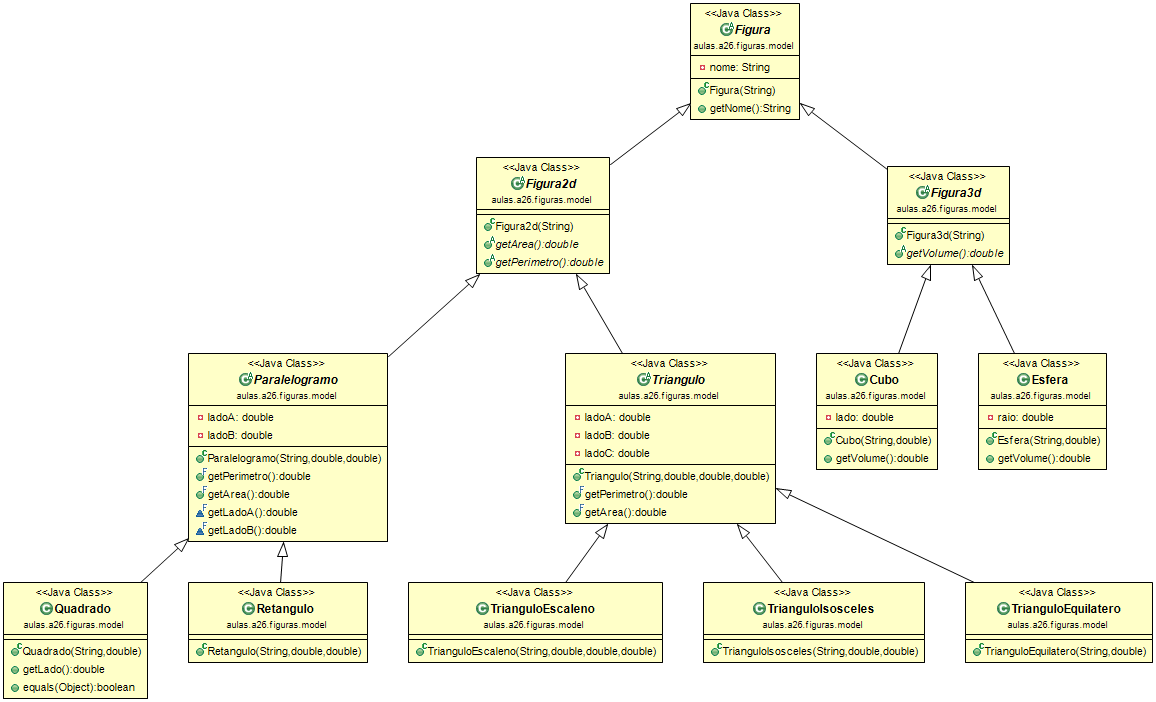
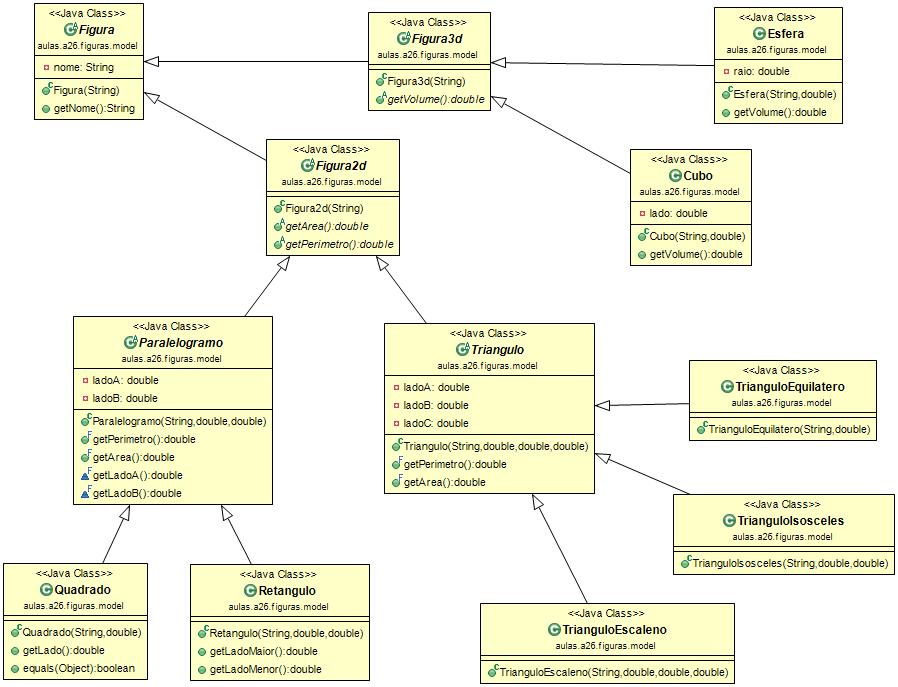
.

diff --git a/aulas-poo/src/aulas/a25/contas/model/Consumidor.java b/aulas-poo/src/aulas/a25/contas/model/Consumidor.java
@@ -1,6 +1,7 @@
 package aulas.a25.contas.model;
 
 import java.util.ArrayList;
+import java.util.HashSet;
 import java.util.Objects;
 
 public class Consumidor {
@@ -8,6 +9,7 @@ public class Consumidor {
 	private String nome;
 
 	private ArrayList<Conta> contas = new ArrayList<>();
+	//private HashSet<Conta> setContas = new HashSet<>();
 
 	public Consumidor(String nome) {
 		this.nome = Objects.requireNonNull(nome);
@@ -18,6 +20,7 @@ public class Consumidor {
 	}
 
 	public Status novaConta(Conta conta) {
+		//setContas.add(conta);
 		if (!this.equals(conta.getConsumidor()))
 			return Status.CONSUMIDOR_INCORRETO;
 		if (contas.contains(conta))

diff --git a/aulas-poo/src/aulas/a26/figuras/model/Retangulo.java b/aulas-poo/src/aulas/a26/figuras/model/Retangulo.java
@@ -6,4 +6,12 @@ public final class Retangulo extends Paralelogramo {
 		super(nome, ladoA, ladoB);
 	}
 
+	public double getLadoMaior() {
+		return (getLadoA() > getLadoB() ? getLadoA() : getLadoB());
+	}
+	
+	public double getLadoMenor() {
+		return (getLadoA() < getLadoB() ? getLadoA() : getLadoB());
+	}
+
 }

diff --git a/aulas-poo/src/aulas/a26/figuras/model/Quadrado.java b/aulas-poo/src/aulas/a26/figuras/model/Quadrado.java
@@ -7,7 +7,7 @@ public class Quadrado extends Paralelogramo {
 	}
 	
 	public double getLado() {
-		return super.getLadoA();
+		return getLadoA();
 	}
 
 	@Override
